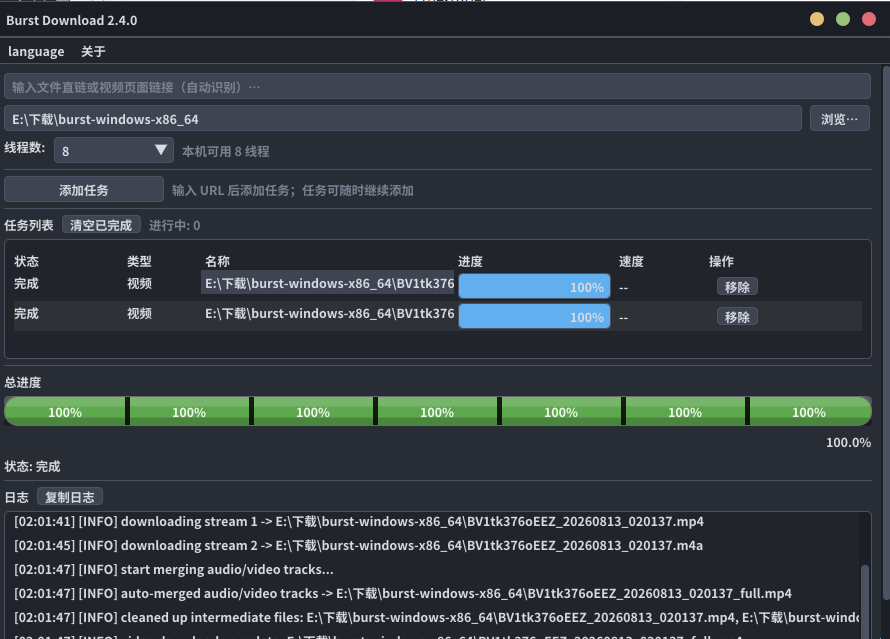
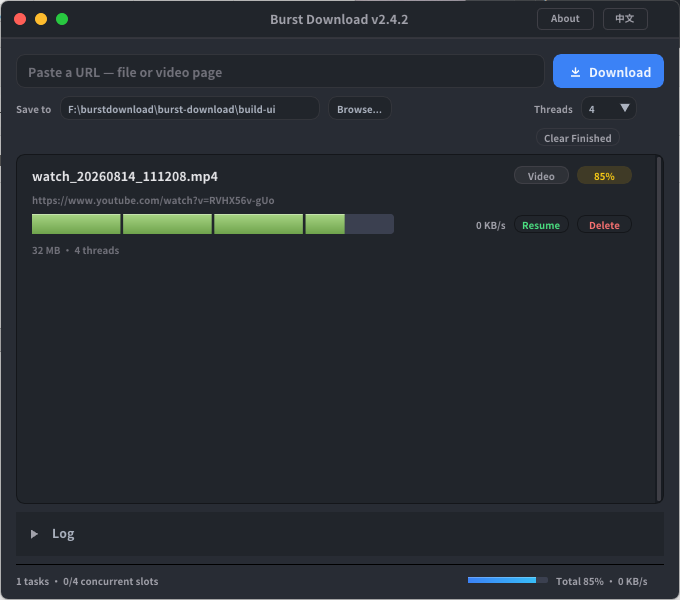
docs: refresh GUI screenshot and README for the new UI
- replace docs/GUI.png with the current task-list UI screenshot
- README/README_ZH: add the per-task detail log panel, fix min window
  size (640x520)

Changed region(s): [[0.0, 0.0, 1.0, 1.0], [0.8647, 0.36, 0.9265, 0.39], [0.1235, 0.48, 0.1853, 0.51]]

diff --git a/README.md b/README.md
@@ -236,12 +236,13 @@ cmake --build build --target burst      # produces burst
 - ⚡ Multi-threaded segmented download (1–8 threads selectable, default adaptive to CPU cores)
 - 🎬 **Video download** (Bilibili / YouTube etc.): parse → download video/audio tracks (parallel chunks) → auto-merge, with 4-stage status shown live (Parsing / Downloading video track / Downloading audio track / Merging)
 - 🗂 **Task list with per-task controls**: **Stop** cancels and **keeps partials** (segmented resume via `.curlbolt.part` — only unfinished parts re-download), **Resume** re-queues and continues, **Delete** removes an incomplete task (cancels + deletes artifacts), **Remove** clears finished rows; URL input clears after a successful add
+- 📜 **Per-task detail log**: click a task to pin it as the log target; the collapsible Log panel shows that task's stage events and errors live (auto-scroll, one-click copy)
 - 📚 **Multi-task queue**: add tasks while downloads are running; 4 concurrent task slots share one engine (each task keeps its full chunk count in flight)
 - 📊 **3D cylinder progress bar** (battery-cell chunks): completed cells green, active cell growing, 5px separators, per-cell percentage, hover shows per-thread speed; overall % + speed bottom-right
 - 📁 Save to a directory only — filename is derived from the URL automatically; "Browse…": native folder dialog on Windows / built-in directory browser on Linux (zero deps)
 - ⚡ **Thunder links** (`thunder://`) decoded automatically
 - 🌐 Bilingual UI (menu bar shows target-language hint: `language` in Chinese UI, `中文` in English UI)
-- 🪟 Windows: frameless full-edge resize (left/right/bottom + corners, min 640×480), DPI-aware; Linux: native title bar (drag & resize)
+- 🪟 Windows: frameless full-edge resize (left/right/bottom + corners, min 640×520), DPI-aware; Linux: native title bar (drag & resize)
 - 💾 Fonts and third-party libs bundled and distributed with the repo; no extra installs
 
 ---

diff --git a/README_ZH.md b/README_ZH.md
@@ -214,12 +214,13 @@ cmake --build build --target burst      # 产出 burst
 - ⚡ 多线程分片下载（1~8 线程可选，默认随 CPU 核数自适应）
 - 🎬 **视频下载**（B站/YouTube 等）：解析 → 下载视频轨/音频轨（分片并行）→ 自动合并，四阶段状态实时显示（解析中/下载视频轨/下载音频轨/合并中）
 - 🗂 **任务列表 + 每任务控制**：**停止** = 取消并**保留断点**（`.curlbolt.part` 分片级元数据，继续时仅续传未完成分片）；**继续** = 重新入队续传；**删除** = 未完成任务硬删（取消 + 删产物 + 移除行）；**移除** = 清理已完成/失败行；URL 添加成功后自动清空
+- 📜 **任务详情日志**：点击任务将其固定为日志目标；可折叠 Log 面板实时显示该任务的阶段事件与错误（自动滚动、一键复制日志）
 - 📚 **多任务队列**：下载中可继续添加任务；4 个并发槽位共享一个引擎（每任务保留完整分片连接数在途）
 - 📊 **3D 圆柱体总进度条**（电池格分片效果）：完成格绿色、当前格增长、格线 5px、格内显示分片完成度%，hover 显示分片速度；右下角显示总体百分比 + 总速度
 - 📁 保存路径填目录即可（文件名自动取自 URL）；"浏览…"按钮：Windows 原生目录对话框 / Linux 内置目录浏览器（零依赖）
 - ⚡ 支持 **迅雷专用链接**（`thunder://` 自动解码）
 - 🌐 中英双语界面（菜单栏显示目标语言提示：中文界面 → `language`，英文界面 → `中文`）
-- 🪟 Windows：无边框窗口全边缘 resize（左右下边 + 四角）+ 最小 640×480 + DPI 感知；Linux：系统标题栏（可拖动/缩放）
+- 🪟 Windows：无边框窗口全边缘 resize（左右下边 + 四角）+ 最小 640×520 + DPI 感知；Linux：系统标题栏（可拖动/缩放）
 - 💾 内嵌字体与第三方库，随仓库分发，无需额外安装
 
 ---
